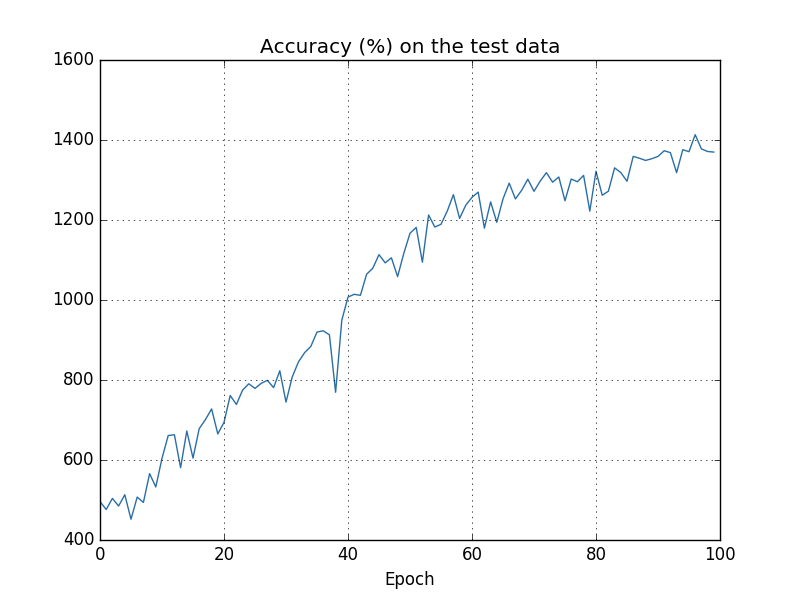
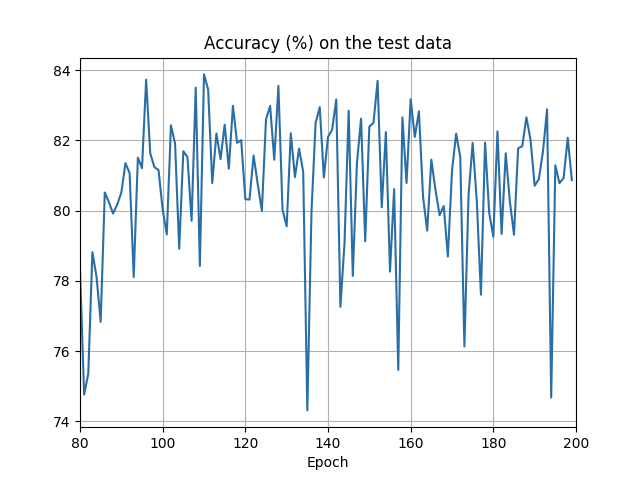
200 epochs Plots Added 0 1 Scaled

diff --git a/Code/main.py b/Code/main.py
@@ -27,8 +27,8 @@ import overfitting
 
 overfitting.main(filename='results.txt', num_epochs=200,
          training_cost_xmin=0,
-         test_accuracy_xmin=0,
+         test_accuracy_xmin=80,
          test_cost_xmin=0,
-         training_accuracy_xmin=0,
+         training_accuracy_xmin=80,
          training_set_size=4220,
          lmbda=0.5)
